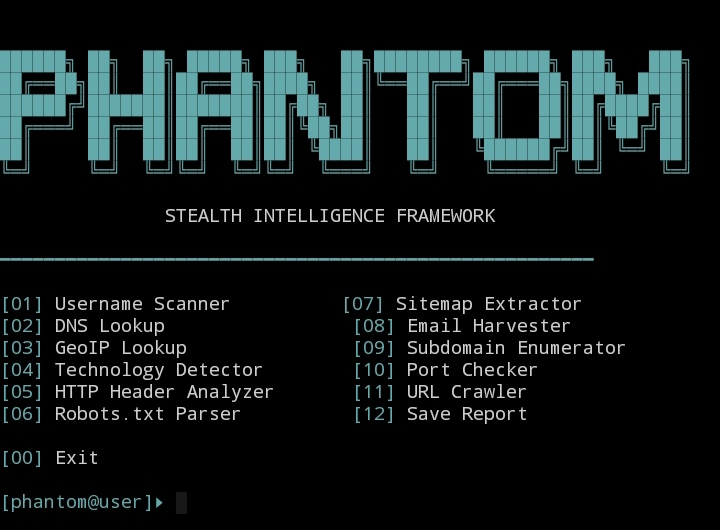
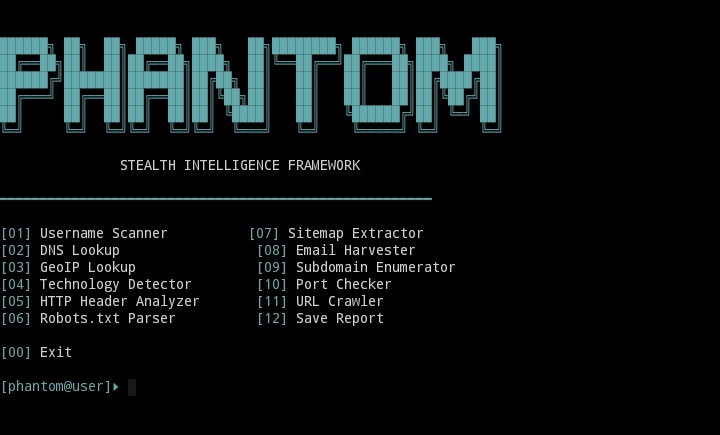
fixed screenshots

diff --git a/README.md b/README.md
@@ -31,16 +31,9 @@ Stealth Intelligence Framework for Termux/Linux
 ## Installation
 
 ```bash
-git clone https://github.com/SEUUSER/PHANTOM.git
-cd PHANTOM
+git clone https://github.com/venceuthegod/Phantom.git
+cd Phantom
 bash install.sh
-```
-
-━━━━━━━━━━━━━━━━━━━━━━━━━━━━
-
-## Usage
-
-```bash
 python phantom.py
 ```
 
@@ -91,6 +84,5 @@ PHANTOM is an educational OSINT framework focused on defensive cybersecurity, pu
 
 ## Author
 
-PHANTOM Framework
-
+Phantom Tools
 Created by: VenceuTheGod
